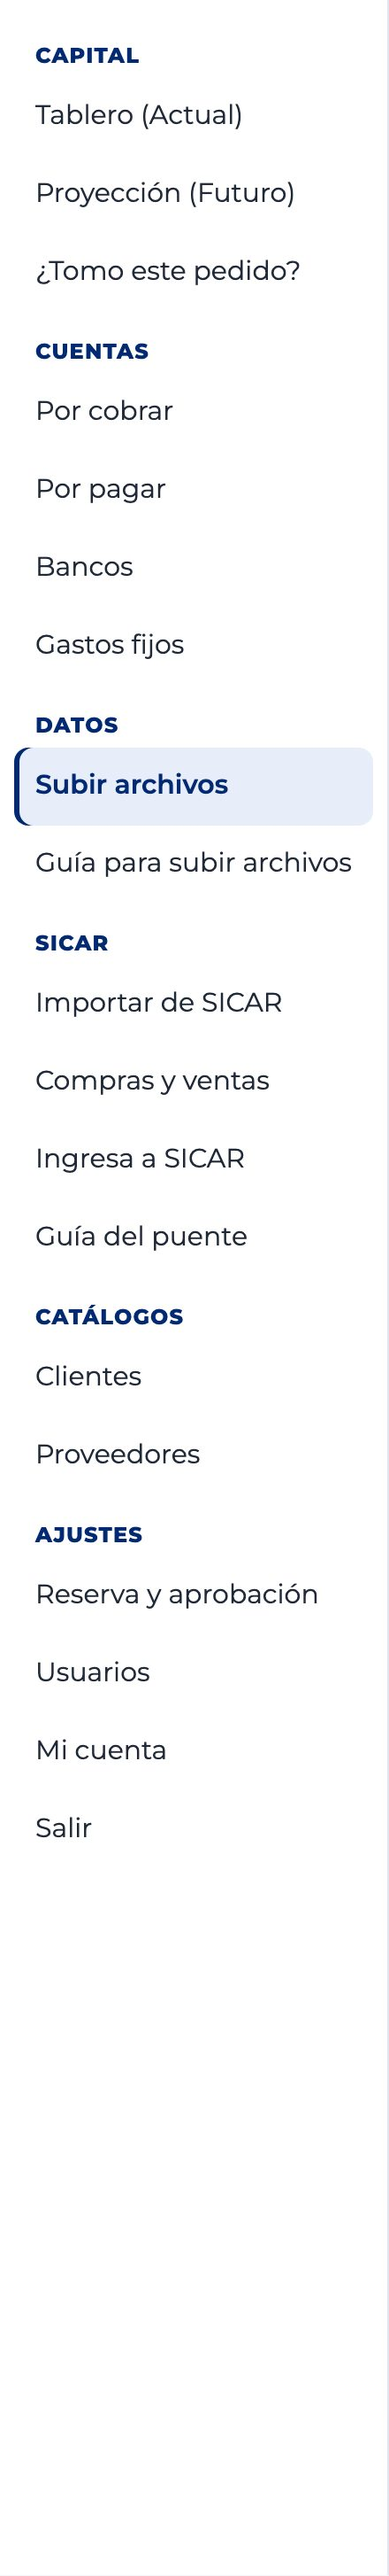
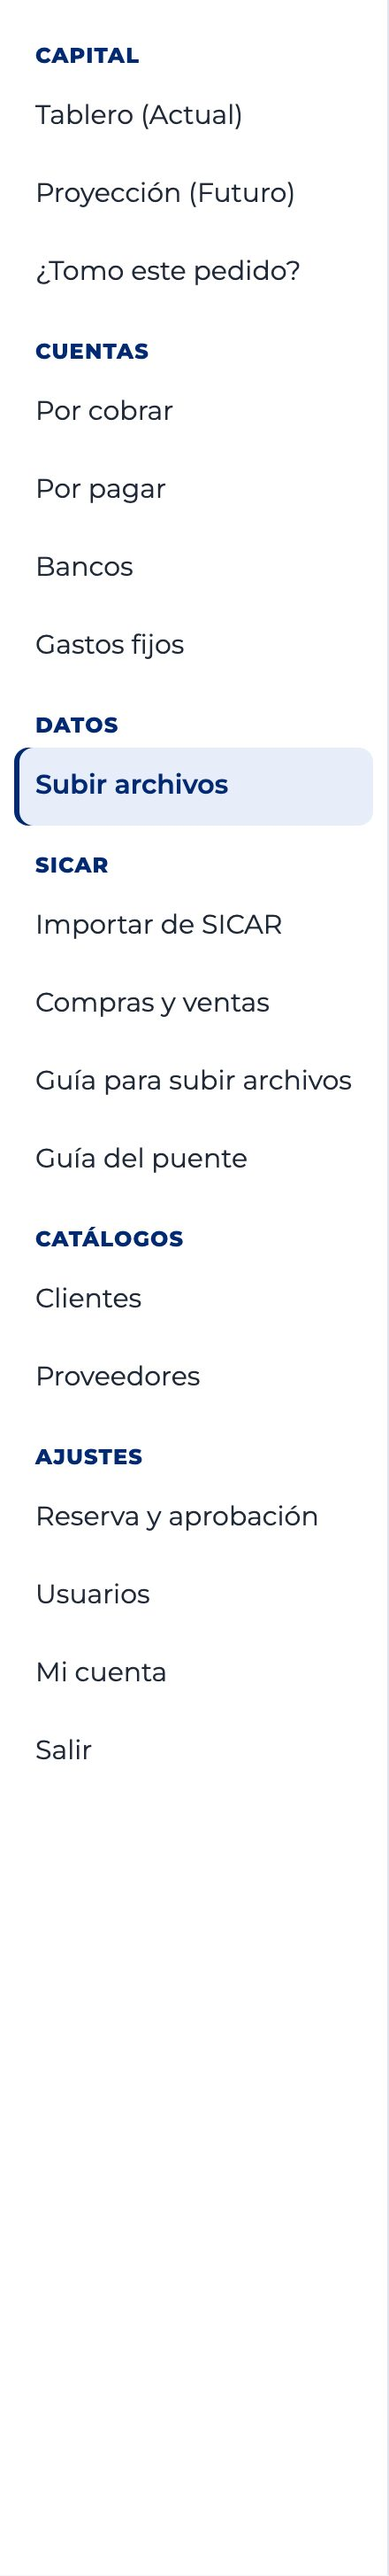
chore(forzza): menu - upload guide under SICAR, remove 'Ingresa a SICAR'

diff --git a/verticals/forzza/sit.js b/verticals/forzza/sit.js
@@ -652,7 +652,7 @@ const hoyMx = () => new Date(Date.now() - 6 * 3600 * 1000).toISOString().slice(0
       const appjs = require('fs').readFileSync(require('path').join(__dirname, 'public', 'app.js'), 'utf8');
       const ti = appjs.indexOf("Lo que te deben y lo que debes"), tn = appjs.indexOf('${hallazgosHtml('), tp = appjs.indexOf('<h2>Próximos 14 días');
       ok('tablero: Neural Findings va entre "Lo que te deben" y "Próximos 14 días"', ti > 0 && tn > ti && tp > tn);
-      ok('menú: "Ingresa a SICAR" bajo SICAR abre Nube SICAR con salida a otra pestaña', /\['sicar_web', 'Ingresa a SICAR'\]/.test(appjs) && /login\.nubesicar\.mx/.test(appjs) && /target="_blank"/.test(appjs) && appjs.indexOf("'sicar_web'") > appjs.indexOf("['grp', 'SICAR']") && appjs.indexOf("'sicar_web'") < appjs.indexOf("['grp', 'Catálogos']"));
+      ok('menú: "Ingresa a SICAR" quitado; la guía para subir archivos está bajo SICAR (dueño 2026-11-23)', !/\['sicar_web', 'Ingresa a SICAR'\]/.test(appjs) && appjs.indexOf("'url:guia-carga.html'") > appjs.indexOf("['grp', 'SICAR']") && appjs.indexOf("'url:guia-carga.html'") < appjs.indexOf("['grp', 'Catálogos']"));
       { const keys = ['calif', 'liquidez', 'riesgo', 'flujo', 'cartera', 'concentracion', 'efectivo', 'dias', 'p90', 'minimo', 'montecarlo', 'meses', 'categorias', 'calor', 'conc', 'deben', 'dso', 'dpo', 'hallazgos', 'proximos'];
         ok('tablero: cada indicador tiene su nota explicativa y hay botón de imprimir', keys.every((k) => new RegExp('\\b' + k + ": \\['").test(appjs) && (appjs.includes("tip('" + k + "')") || (['liquidez', 'riesgo', 'flujo', 'cartera', 'concentracion'].includes(k) && appjs.includes('tip(p.clave)')))) && /id="imprimir"/.test(appjs) && /print\(\)/.test(appjs));
         ok('tablero: la parte de la calificación ya no muestra la regla', !/esc\(p\.regla\)/.test(appjs)); }

diff --git a/verticals/forzza/public/app.js b/verticals/forzza/public/app.js
@@ -211,8 +211,8 @@
   const VIEWS = [
     ['grp', 'Capital'], ['tablero', 'Tablero (Actual)'], ['proyeccion', 'Proyección (Futuro)'], ['simular', '¿Tomo este pedido?'],
     ['grp', 'Cuentas'], ['cxc', 'Por cobrar'], ['cxp', 'Por pagar'], ['bancos', 'Bancos'], ['fijos', 'Gastos fijos'],
-    ['grp', 'Datos'], ['cargar', 'Subir archivos'], ['url:guia-carga.html', 'Guía para subir archivos'],
-    ['grp', 'SICAR'], ['sicar', 'Importar de SICAR'], ['sicar_resumen', 'Compras y ventas'], ['sicar_web', 'Ingresa a SICAR'], ['url:guia-puente.html', 'Guía del puente'],
+    ['grp', 'Datos'], ['cargar', 'Subir archivos'],
+    ['grp', 'SICAR'], ['sicar', 'Importar de SICAR'], ['sicar_resumen', 'Compras y ventas'], ['url:guia-carga.html', 'Guía para subir archivos'], ['url:guia-puente.html', 'Guía del puente'],
     ['grp', 'Catálogos'], ['clientes', 'Clientes'], ['proveedores', 'Proveedores'],
     ['grp', 'Ajustes'], ['ajustes', 'Reserva y aprobación'], ['usuarios', 'Usuarios'], ['cuenta', 'Mi cuenta']
   ];

diff --git a/verticals/forzza/public/app.html b/verticals/forzza/public/app.html
@@ -148,6 +148,6 @@ body.vista-llena main{max-width:none;display:flex;flex-direction:column}
 </head>
 <body>
 <div id="app"></div>
-<script src="app.js?v=22" defer></script>
+<script src="app.js?v=23" defer></script>
 </body>
 </html>

diff --git a/CLAUDE.md b/CLAUDE.md
@@ -2644,7 +2644,7 @@ Read-only; every figure comes from the banks and documents and is computed in `e
 ### Subir archivos — all files at once, each recognised by itself (owner request 2026-11-23, copied from app.synthexsai.com)
 
 Menu Datos > **Subir archivos** (`#cargar`) and a header button. The person drops up to **12 files together** (SICAR reports in PDF/Excel, bank statements in Excel/CSV, receivable/payable lists) and `POST /api/v1/cargar` (multipart `archivos`, optional `aplicar=0` dry run, optional `decisiones` JSON `{index:{tipo:'banco',cuenta_id}|{tipo:'cxc'|'cxp'}|{omitir:true}}`) reads each one: **SICAR first** (sicar.js by title/columns), else `src/cargar.js` (pure) decides bank statement vs cxc/cxp list. **A bank statement goes to an account only when it is certain** (last 4 digits in the file name or header, not part of a date; else the bank name; else the only account) - otherwise it comes back **revisar** with the candidates and is NOT loaded, because a statement in the wrong account moves the cash on the dashboard. A list that only says "Nombre", or whose file name contradicts its columns, also comes back revisar. Clear files load at once, in order: SICAR credits, SICAR history, lists, banks; each file is its own transaction, one failure never stops the others, the same file twice in one batch is read once, and re-uploading never duplicates (same dedupe as the single-file imports, which now call the SAME functions `importarBanco` / `importarDocs` / `correrSicar`). In a batch an older statement never overwrites a newer account balance (`soloSiMasNuevo`). `GET /api/v1/cargar/estado` feeds the "Qué descargar de SICAR" checklist (menu path, how often, last upload per report and per bank account). The page sends a drop in **groups of 4** (twelve bank PDFs in one request can pass the ~100 s proxy ceiling).
-- **CLIENT GUIDE `public/guia-carga.html`** (`/forzza/app/guia-carga.html`, linked under Datos and from the Subir archivos page): 7 steps, what to download from SICAR (menu path, filters, how often), bank statements, drag and drop, reading Cargado/Revisar/No se cargó, confirming the account, the KPIs. **Every screenshot is the real app with an invented company** (`scripts/captura-guia-carga.js` creates a throwaway `guia-fz-*` tenant, uploads fake files, captures, deletes it; never client files). Re-run it when the screen changes. The SICAR toolbar is a labelled HTML illustration (SICAR's own manual images are not copied).
+- **CLIENT GUIDE `public/guia-carga.html`** (`/forzza/app/guia-carga.html`, linked under SICAR in the menu (owner 2026-11-23) and from the Subir archivos page): 7 steps, what to download from SICAR (menu path, filters, how often), bank statements, drag and drop, reading Cargado/Revisar/No se cargó, confirming the account, the KPIs. **Every screenshot is the real app with an invented company** (`scripts/captura-guia-carga.js` creates a throwaway `guia-fz-*` tenant, uploads fake files, captures, deletes it; never client files). Re-run it when the screen changes. The SICAR toolbar is a labelled HTML illustration (SICAR's own manual images are not copied).
 - **BANK STATEMENTS ARE READ AS THE BANK'S OWN PDF (BBVA Maestra PYME, HSBC cheques)** - `src/bancos-pdf.js` (pure). **HSBC writes part of its PDF text in EBCDIC code page 037** ("ñô" = "14", "[@ðKðò" = "$ 0.02", even its own name on some months); it is decoded per cell, and ONLY for HSBC (in BBVA a lone "ó" would become "3"). **Every statement must add up**: opening + movements = the printed closing balance, and in BBVA also the printed count and total of cargos and abonos; one that does not comes back `revisar`, never loaded on its own. Conventions copied from the 2026-11-15 load so the movement fingerprint (`fecha|concepto|referencia|monto`) is identical and re-uploading a month never duplicates: HSBC concepto = description with spaces collapsed, referencia = its Referencia column (the serial line is NOT appended); BBVA concepto = line 1 + " · " + line 2, referencia = the DIGITS after "Ref." ("Ref. ******3114" is no reference), contraparte = the last line when the movement has 4+ lines. **Verified against the real files: all 11 statements (BBVA Jul-Oct, HSBC Apr-Oct) reconcile to the cent, and 1,002/1,002 BBVA and 197/197 HSBC movements match the fingerprints already in production.** A scanned PDF (no text) is refused as such. Other banks: Excel/CSV.
 - **SICAR READERS ADDED FROM THE MANUAL'S OWN SCREENSHOTS** (manual.sicar.mx/reportes shows columns only as images; read 2026-11-23): Utilidades por Ventas (Documento, Fecha, Folio, Cliente, Caja, Usuario, Folio F., Total Ven., Total Com., Utilidad; Notas de Crédito section subtracts; must match TOTALES for venta AND utilidad) -> `fz_sicar_docs` tipo `utilidad` with `costo`/`utilidad`; Utilidades por Artículos, Inventario (Clave, Descripción, Precio U., Exis, Total; "Total :" footer; the "Precio:" filter says the valuation basis) and Inventario/Utilidad -> `fz_sicar_articulos` (one snapshot per import). Quantities print with a decimal COMMA ("6,0", "1,00"). The 4 manual examples are fixtures in `test-fixtures-sicar.js` and each reconciles to the printed total. "Compras y ventas" now shows gross margin (month, client), inventory value (warns when valued at sale price), and products by profit, summed per product. **Real Forzza files verified 2026-11-23:** COMPRAS.pdf (1,262 rows) and Créditos a Clientes (PDF + both Excel exports) match SICAR's printed totals; the Créditos PDF carries several filters in one cell ("Cliente: Todos | Estado: Vencidos") and is now split. **Still not read:** Corte de Caja Extendido and Movimientos de Caja (columns are known - Fecha, Hora, Comentario, Corte, Pago, E/S, Caja, Usuario, Total - but cash deposits already reach the bank statements, so they would double count without a rule). There is no Kardex in SICAR's report list. The Excel layout of the new reports is taken from the PDF layout; confirm with Forzza's first real export.
 
@@ -2659,7 +2659,7 @@ The Digit2AI voice orb appears in `/forzza/app` after sign-in (`data-mode="reply
 - Model `FORZZA_DALIA_MODEL` (default `claude-sonnet-5`, falls back to Haiku 4.5) · `FORZZA_AI=off` disables. Reuses `ANTHROPIC_API_KEY`.
 - Real data note: payroll/fuel live mostly in SICAR as "GAS", and ~800 bank rows are `sin_categoria`, so the prompt tells Dalia to search by text and also check SICAR. NOT covered by tests: a real model call (check live).
 
-**NOTAS DEL TABLERO + IMPRIMIR (2026-11-18, owner).** Every indicator on the Tablero has an "i" button that opens a note on mouse-over (tap on phones) with what it means and what to do (`TIPS` + `tip(k)` in `public/app.js`, one fixed-position box clamped to the screen, closes on scroll/Escape/outside tap). The score breakdown shows only today's value, never the scoring rule (owner: the rule text confused). "Imprimir resultados" calls `print()` with a print stylesheet (no menu, no notes, cards unbroken, colours kept), so the PDF is now a printout of the live Tablero, not a guide. **NEURAL FINDINGS + SICAR EN LA NUBE (2026-11-18).** The tablero carries "Neural Findings · Diagnóstico y prescripción" between "Lo que te deben y lo que debes" and "Próximos 14 días": `src/hallazgos.js` (pure, FIXED RULES, no model) turns figures `saludDe` already computes into findings `{codigo, severidad critico|atencion|oportunidad, titulo, diagnostico, prescripcion, evidencia, impacto, enlace}` (days of cash, Monte Carlo negative risk, SICAR overdue naming the top 5 clients, red months, concentration, stale banks, accounts with no data, no payables, no reserve, uncategorised movements); GET /salud returns them as `hallazgos`. A missing figure produces a request for the data, never an invented finding. Menu SICAR > "Ingresa a SICAR" (`#sicar_web`) frames https://login.nubesicar.mx/ (sends no X-Frame-Options) with an "Abrir en otra pestaña" fallback (third-party cookies may block login in the frame); only Nube SICAR, never the desktop program. The left pane collapses on desktop with the header button («/»), remembered in `localStorage.fz_side`, and collapses by itself on that view; phones keep the drawer.
+**NOTAS DEL TABLERO + IMPRIMIR (2026-11-18, owner).** Every indicator on the Tablero has an "i" button that opens a note on mouse-over (tap on phones) with what it means and what to do (`TIPS` + `tip(k)` in `public/app.js`, one fixed-position box clamped to the screen, closes on scroll/Escape/outside tap). The score breakdown shows only today's value, never the scoring rule (owner: the rule text confused). "Imprimir resultados" calls `print()` with a print stylesheet (no menu, no notes, cards unbroken, colours kept), so the PDF is now a printout of the live Tablero, not a guide. **NEURAL FINDINGS + SICAR EN LA NUBE (2026-11-18).** The tablero carries "Neural Findings · Diagnóstico y prescripción" between "Lo que te deben y lo que debes" and "Próximos 14 días": `src/hallazgos.js` (pure, FIXED RULES, no model) turns figures `saludDe` already computes into findings `{codigo, severidad critico|atencion|oportunidad, titulo, diagnostico, prescripcion, evidencia, impacto, enlace}` (days of cash, Monte Carlo negative risk, SICAR overdue naming the top 5 clients, red months, concentration, stale banks, accounts with no data, no payables, no reserve, uncategorised movements); GET /salud returns them as `hallazgos`. A missing figure produces a request for the data, never an invented finding. Menu entry "Ingresa a SICAR" was REMOVED from the menu (owner 2026-11-23; the view `#sicar_web` still exists, unlinked). It frames https://login.nubesicar.mx/ (sends no X-Frame-Options) with an "Abrir en otra pestaña" fallback (third-party cookies may block login in the frame); only Nube SICAR, never the desktop program. The left pane collapses on desktop with the header button («/»), remembered in `localStorage.fz_side`, and collapses by itself on that view; phones keep the drawer.
 
 **Invoices (2026-11-17, same as NeoHaul):** D2-FZ-2026-001 onboarding USD 700 and D2-FZ-2026-002 monthly USD 397 (owner 2026-11-18, same as other verticals; was 990/650) (December 2026), no IVA, published as private `/d/:token` links (HTML only in `d2_shared_docs`, never in the repo). Their Stripe buttons hit `/forzza/app/pagar/onboarding` (one-time) and `/forzza/app/pagar/mensualidad` (monthly subscription): amounts live in `PAGOS` in `src/index.js`, never in the request; return page `/forzza/app/pago`.
 
